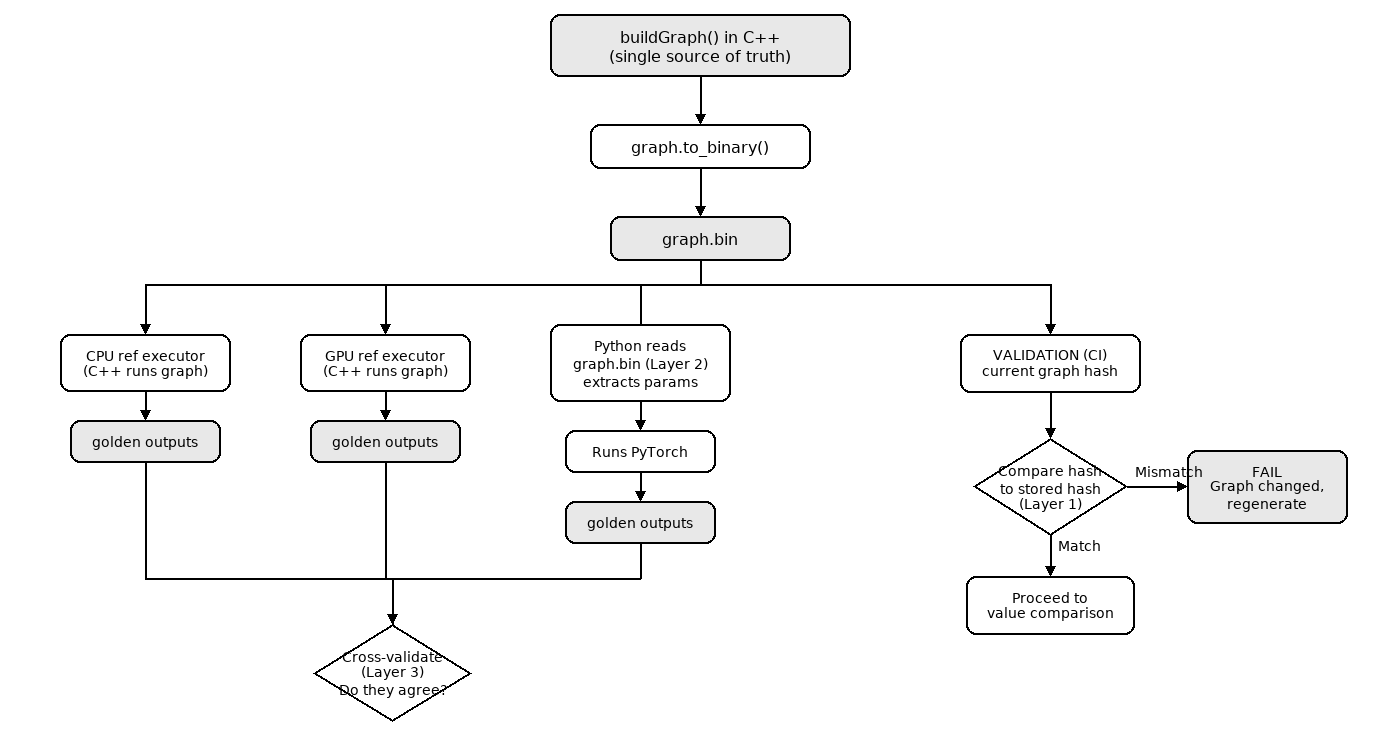
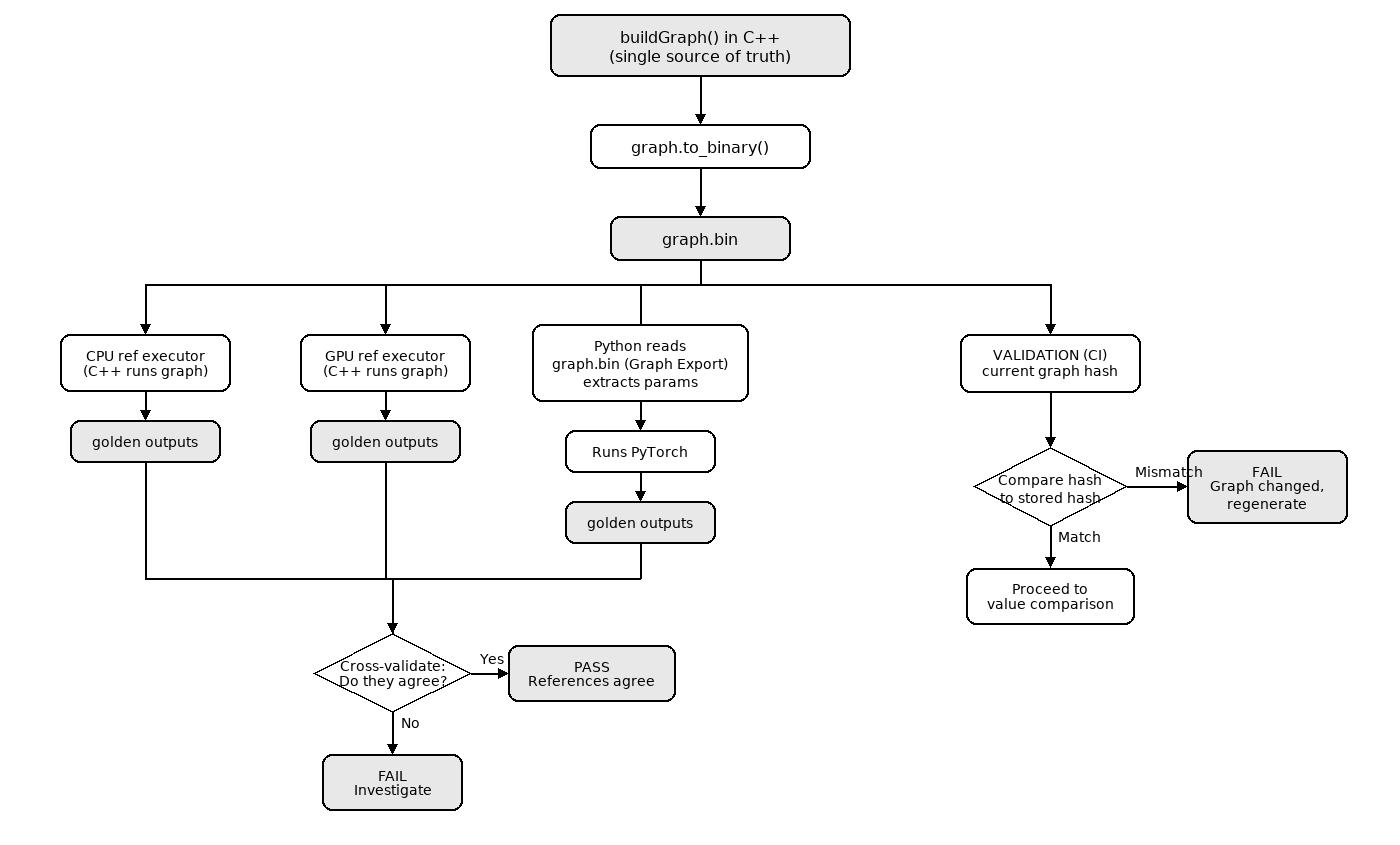
[hipDNN] RFC 0010: update diagrams to match renamed checks
Remove Layer 1/2/3 labels from diagrams, add Yes/No result boxes
to cross-validate diamond so all branches have outcomes.

diff --git a/projects/hipdnn/docs/rfcs/images/generate_diagrams.py b/projects/hipdnn/docs/rfcs/images/generate_diagrams.py
@@ -277,7 +277,7 @@ def make_graph_correctness():
     arr_down(d, cols[1], c2a[3], c2b[1])
 
     # Column 3: Python
-    c3a = box(d, cols[2], col_top + 28, ["Python reads", "graph.bin (Layer 2)", "extracts params"],
+    c3a = box(d, cols[2], col_top + 28, ["Python reads", "graph.bin (Graph Export)", "extracts params"],
               font=FONT_SM, min_w=180)
     c3b_cy = c3a[3] + gap
     c3b = box(d, cols[2], c3b_cy, ["Runs PyTorch"], font=FONT_SM, min_w=150)
@@ -292,7 +292,7 @@ def make_graph_correctness():
 
     # Diamond: compare hash
     c4_dia_cy = c4a[3] + gap + 45
-    c4_dia = diamond(d, cols[3], c4_dia_cy, ["Compare hash", "to stored hash", "(Layer 1)"],
+    c4_dia = diamond(d, cols[3], c4_dia_cy, ["Compare hash", "to stored hash"],
                      font=FONT_SM, pad=25)
     arr_down(d, cols[3], c4a[3], c4_dia_cy - c4_dia[5])
 
@@ -317,7 +317,7 @@ def make_graph_correctness():
     cross_cy = junction_y + gap + 45
 
     cross_dia = diamond(d, cross_cx, cross_cy,
-                        ["Cross-validate", "(Layer 3)", "Do they agree?"],
+                        ["Cross-validate:", "Do they agree?"],
                         font=FONT_SM, pad=25)
 
     # Vertical lines from each golden output down to junction, then horizontal bar
@@ -330,8 +330,23 @@ def make_graph_correctness():
                (cross_cx - ARROW_SZ // 2, cross_cy - cross_dia[5] - ARROW_SZ),
                (cross_cx + ARROW_SZ // 2, cross_cy - cross_dia[5] - ARROW_SZ)], fill=BLACK)
 
+    # Cross-validate results: Yes → right, No → down
+    # Yes → PASS box to the right
+    cv_pass_cx = cross_cx + cross_dia[4] + 120
+    cv_pass = box(d, cv_pass_cx, cross_cy, ["PASS", "References agree"],
+                  font=FONT_SM, fill=GRAY, min_w=160)
+    arr_right(d, cross_cx + cross_dia[4], cross_cy, cv_pass[0])
+    d.text((cross_cx + cross_dia[4] + 8, cross_cy - 22), "Yes", fill=BLACK, font=FONT_SM)
+
+    # No → FAIL box below
+    cv_fail_cy = cross_cy + cross_dia[5] + gap + 20
+    cv_fail = box(d, cross_cx, cv_fail_cy, ["FAIL", "Investigate"],
+                  font=FONT_SM, fill=GRAY, min_w=140)
+    arr_down(d, cross_cx, cross_cy + cross_dia[5], cv_fail[1])
+    d.text((cross_cx + 8, cross_cy + cross_dia[5] + 3), "No", fill=BLACK, font=FONT_SM)
+
     # Crop to content
-    crop_h = int(max(c4_match[3], cross_cy + cross_dia[5]) + 35)
+    crop_h = int(max(c4_match[3], cv_fail[3]) + 35)
     crop_w = int(max(W, c4_fail[2] + 30))
     img = img.crop((0, 0, min(crop_w, W), crop_h))
     img.save(os.path.join(OUTPUT_DIR, "graph_level_correctness.png"))